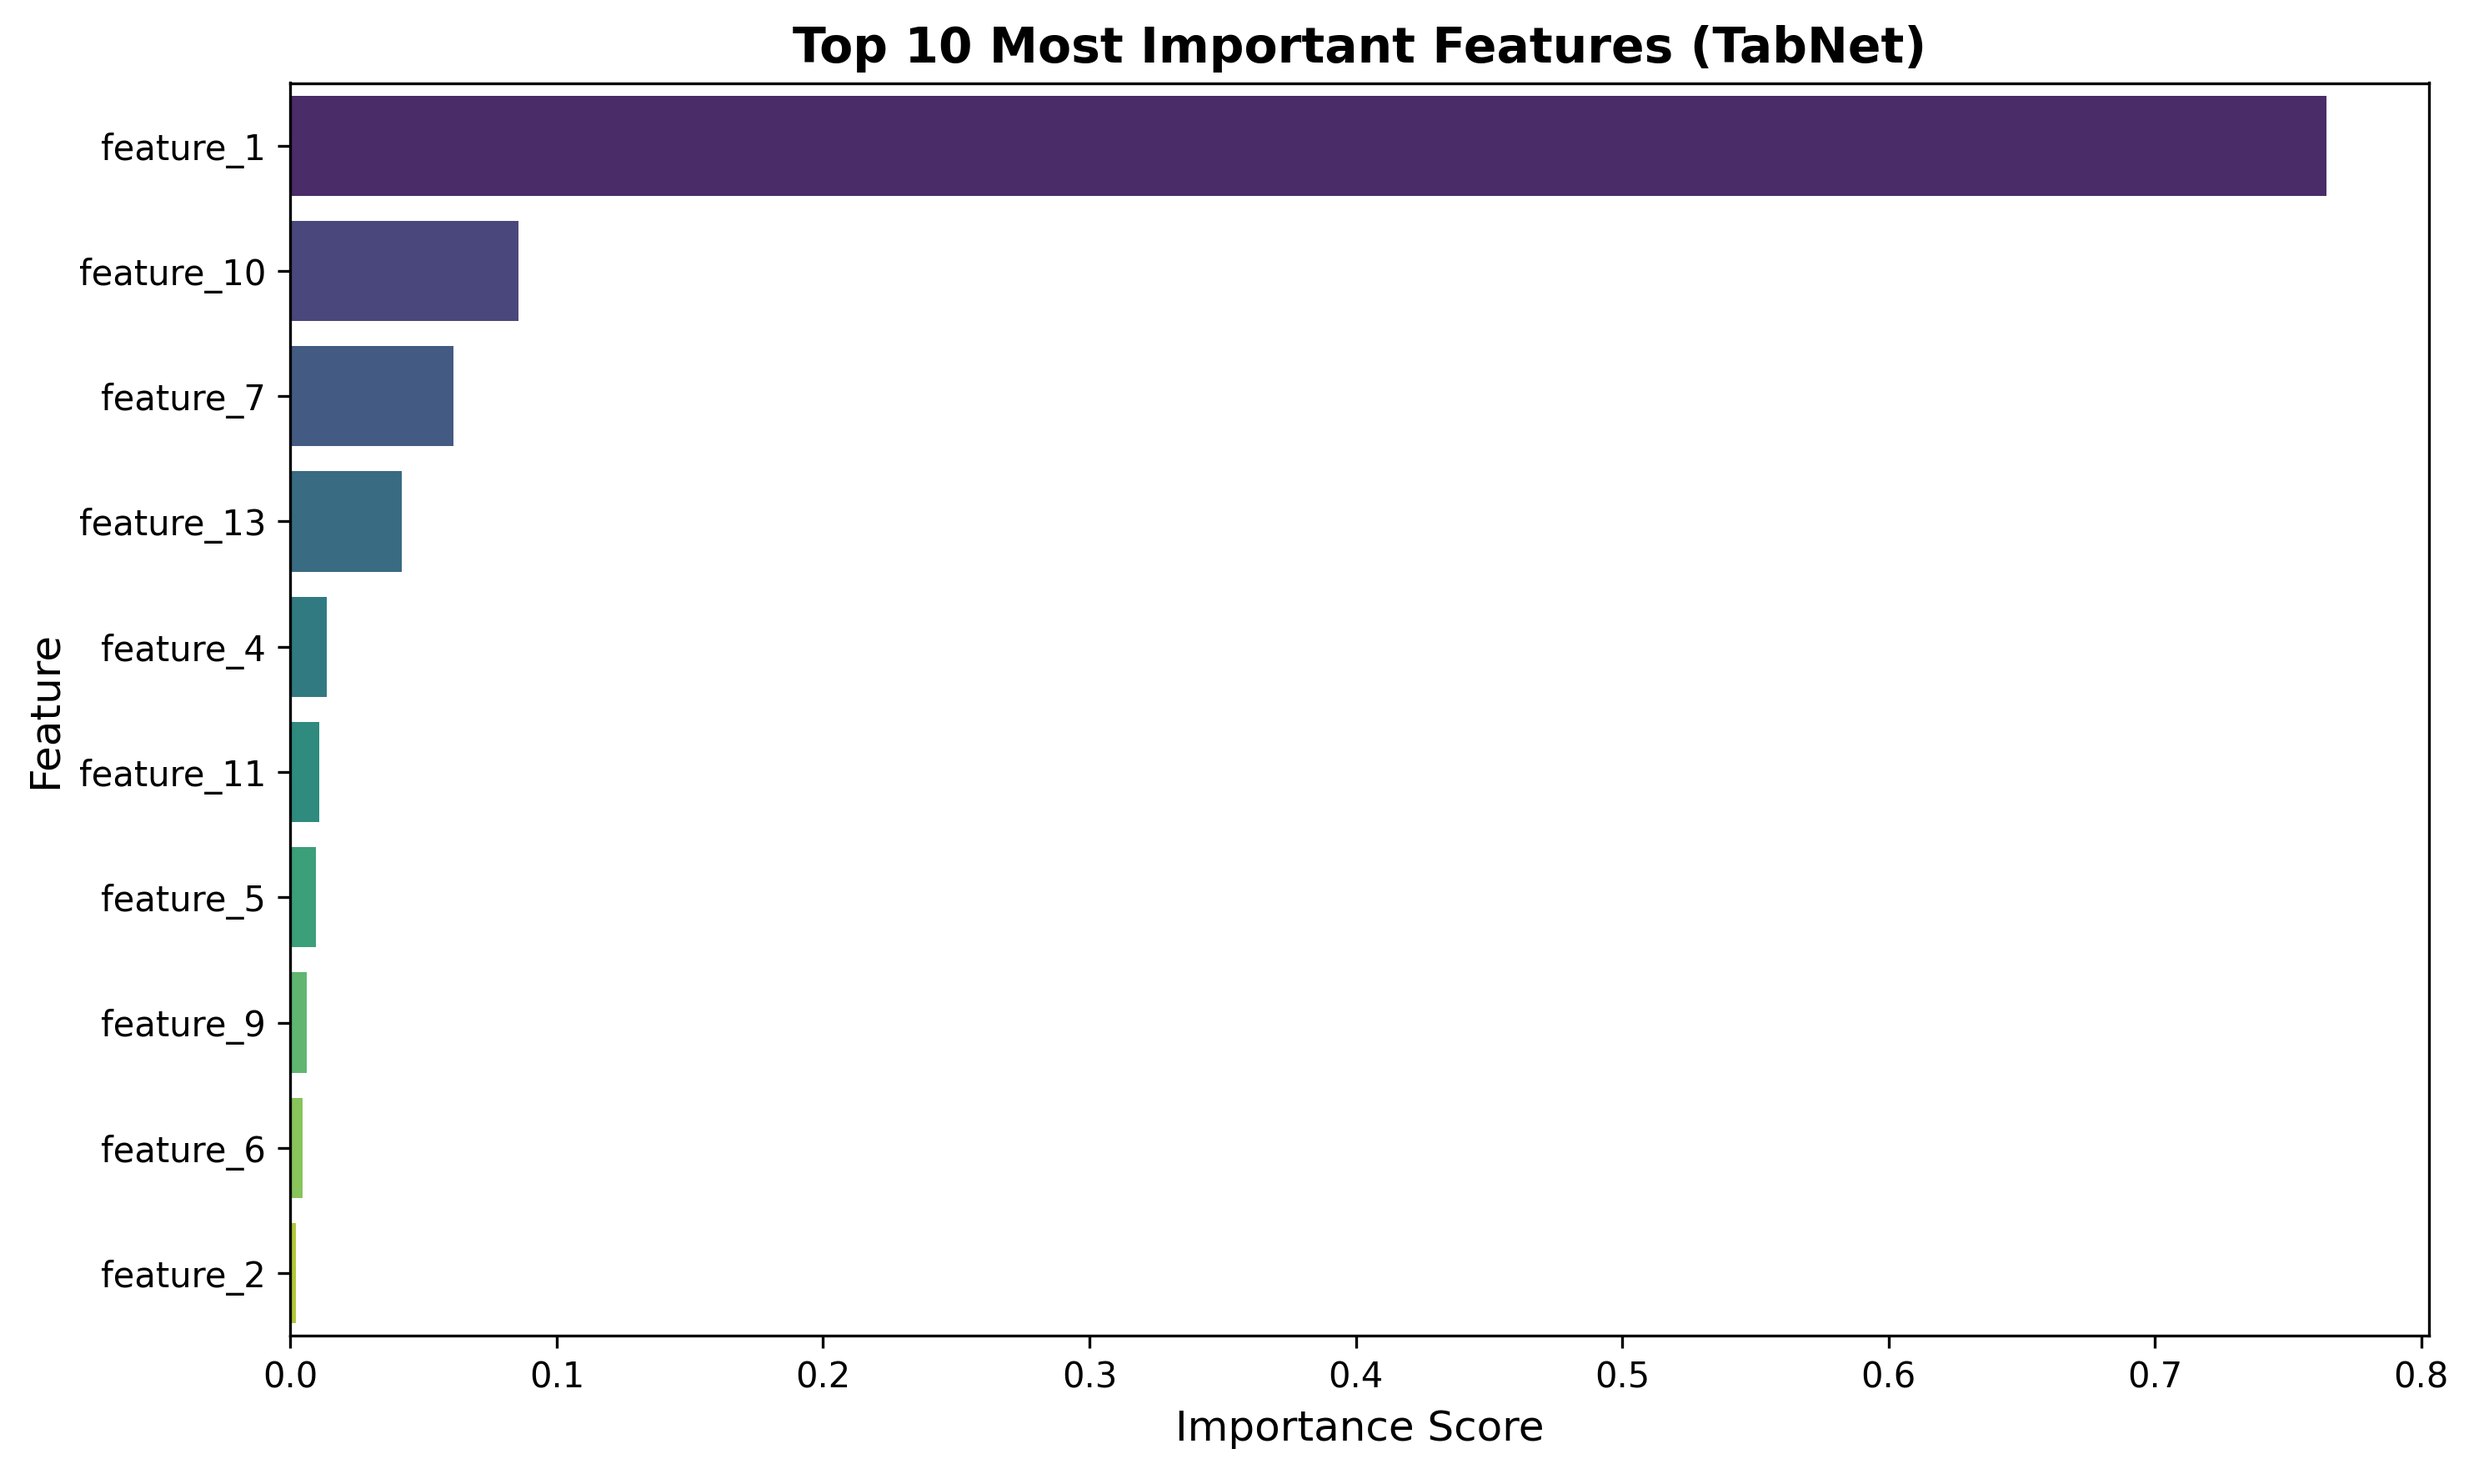
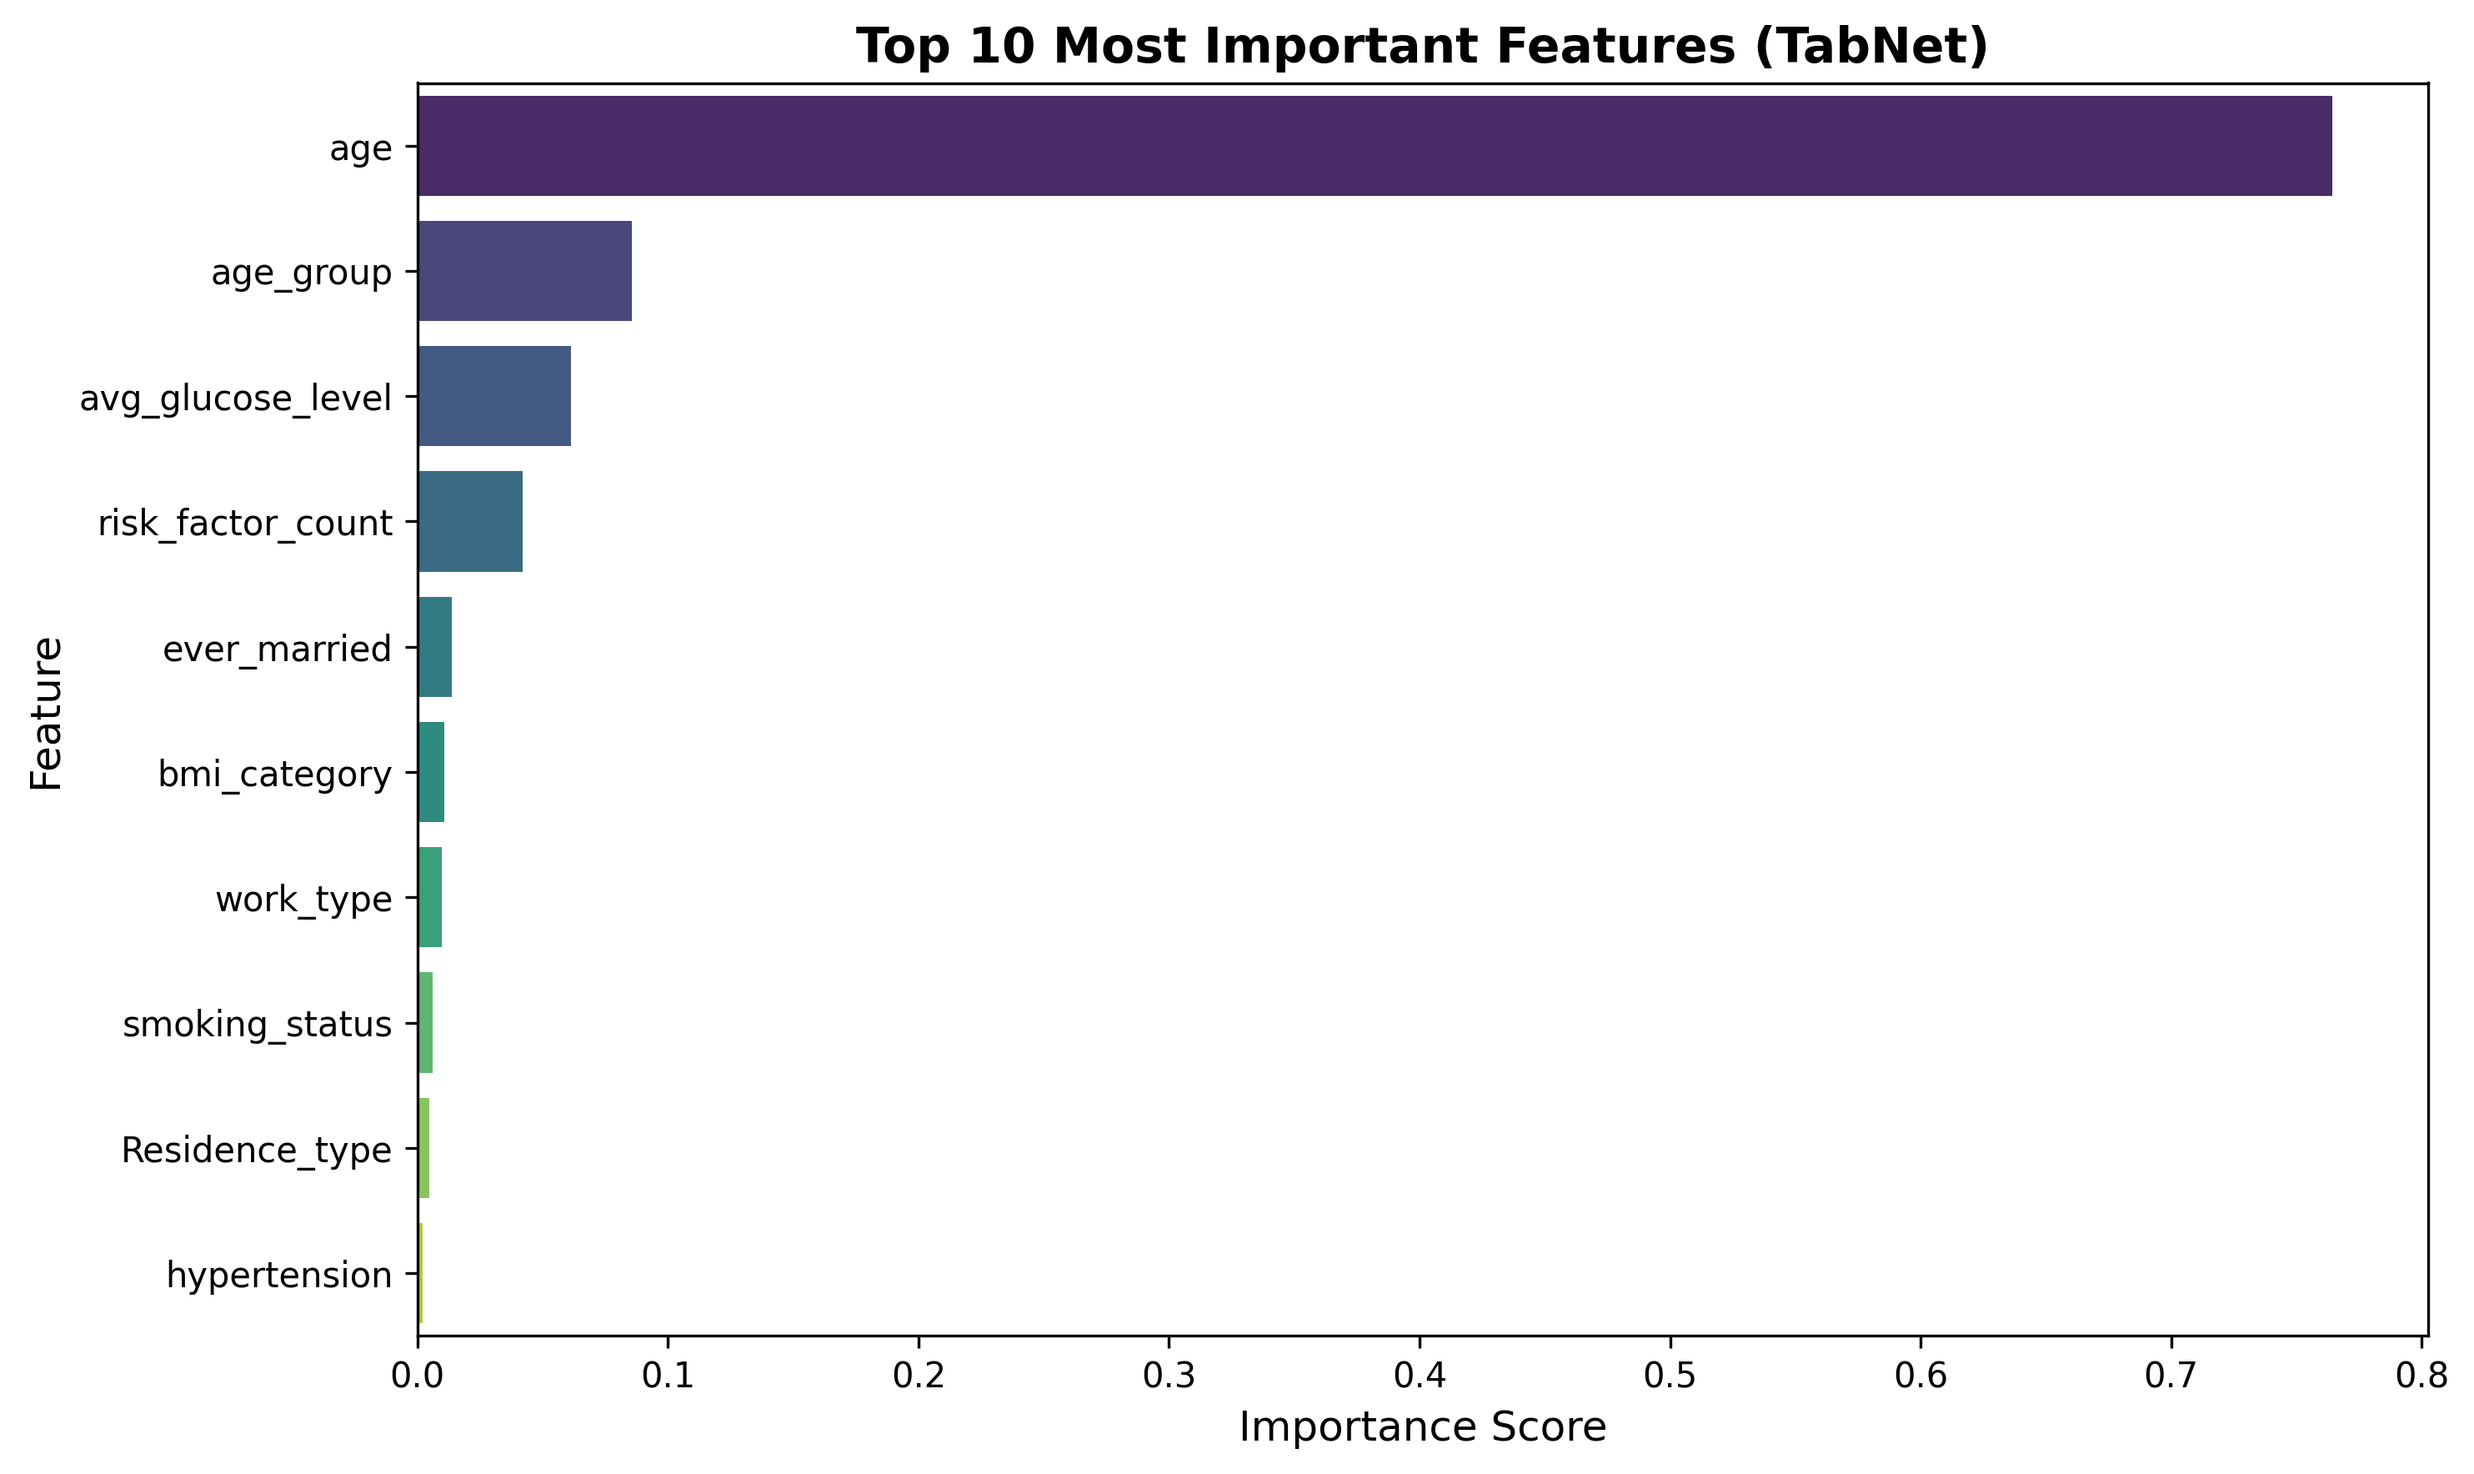
pokazanie nazw przy waznosci cech

diff --git a/evaluate.py b/evaluate.py
@@ -293,6 +293,7 @@ def create_evaluation_report(
     X_test: np.ndarray,
     y_test: np.ndarray,
     model: TabNetStrokeModel,
+    feature_names: list = None,
     results_dir: str = "results"
 ) -> None:
     """
@@ -302,6 +303,7 @@ def create_evaluation_report(
         X_test: Dane testowe
         y_test: Etykiety testowe
         model: Wytrenowany model
+        feature_names: Lista nazw cech
         results_dir: Katalog na wyniki
     """
     
@@ -341,7 +343,7 @@ def create_evaluation_report(
     )
     
     # Feature importance
-    feature_importance = model.get_feature_importance(X_test)
+    feature_importance = model.get_feature_importance(X_test, feature_names=feature_names)
     
     plt.figure(figsize=(10, 6))
     sns.barplot(
@@ -416,7 +418,7 @@ def main():
     print(f"✓ Dane testowe przygotowane: {X_test.shape[0]} próbek\n")
     
     # Ewaluacja
-    create_evaluation_report(X_test, y_test, model, args.results_dir)
+    create_evaluation_report(X_test, y_test, model, feature_names=feature_names, results_dir=args.results_dir)
 
 
 if __name__ == "__main__":

diff --git a/src/model.py b/src/model.py
@@ -193,15 +193,19 @@ class TabNetStrokeModel:
         
         return self.model.predict_proba(X)
     
-    def get_feature_importance(self, X: np.ndarray) -> pd.DataFrame:
+    def get_feature_importance(self, X: np.ndarray, feature_names: list = None) -> pd.DataFrame:
         """
         Zwraca ważność cech (feature importance).
         """
-        if isinstance(X, pd.DataFrame):
-            feature_names = X.columns.tolist()
-            X = X.values
-        else:
-            feature_names = [f"feature_{i}" for i in range(X.shape[1])]
+        if feature_names is None:
+            if isinstance(X, pd.DataFrame):
+                feature_names = X.columns.tolist()
+                X = X.values
+            else:
+                feature_names = [f"feature_{i}" for i in range(X.shape[1])]
+        elif isinstance(X, pd.DataFrame):
+             X = X.values
+
         masks = self.model.explain(X)
         importance = masks[0].mean(axis=0) 
         

diff --git a/src/train.py b/src/train.py
@@ -149,7 +149,7 @@ def main():
     )
     
     # Feature importance
-    feature_importance = model.get_feature_importance(X_test.values)
+    feature_importance = model.get_feature_importance(X_test)
     print("\n")
     print("ważność cech:")
     print(feature_importance.to_string(index=False))
